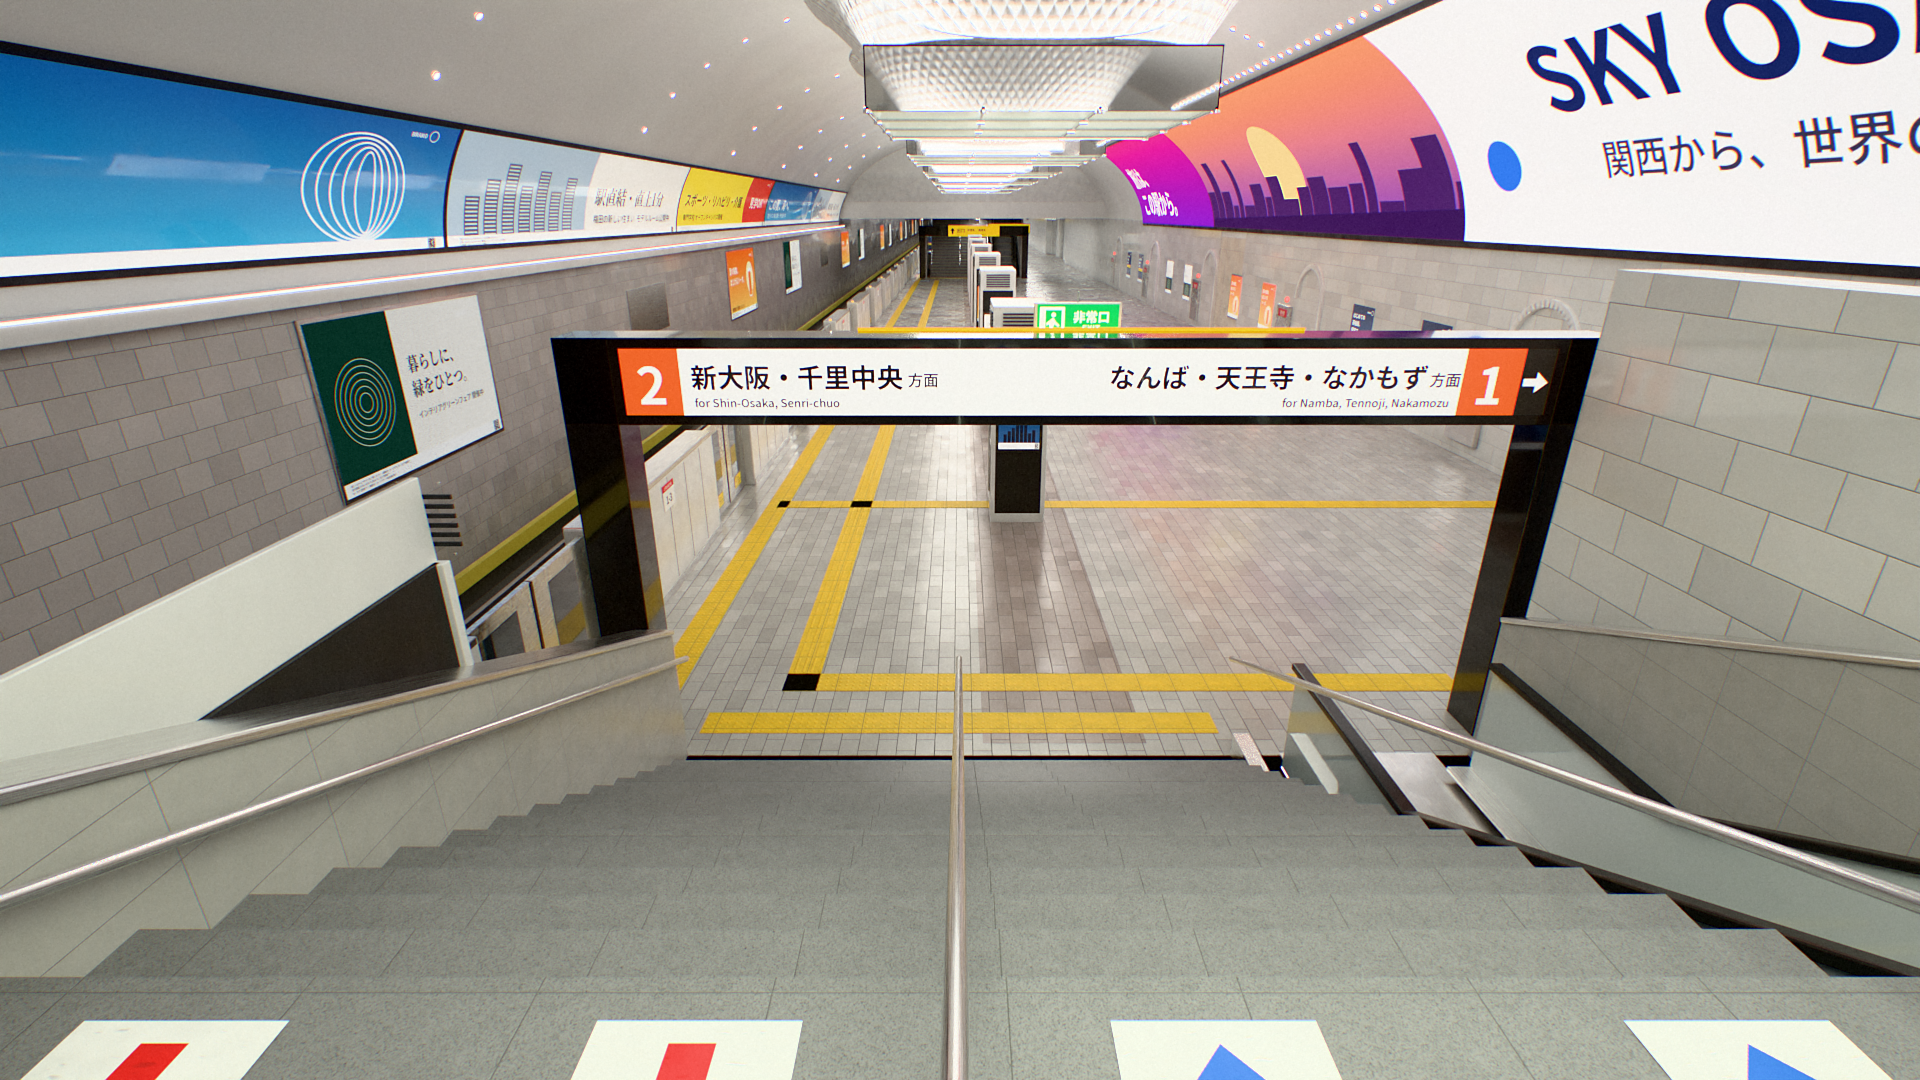
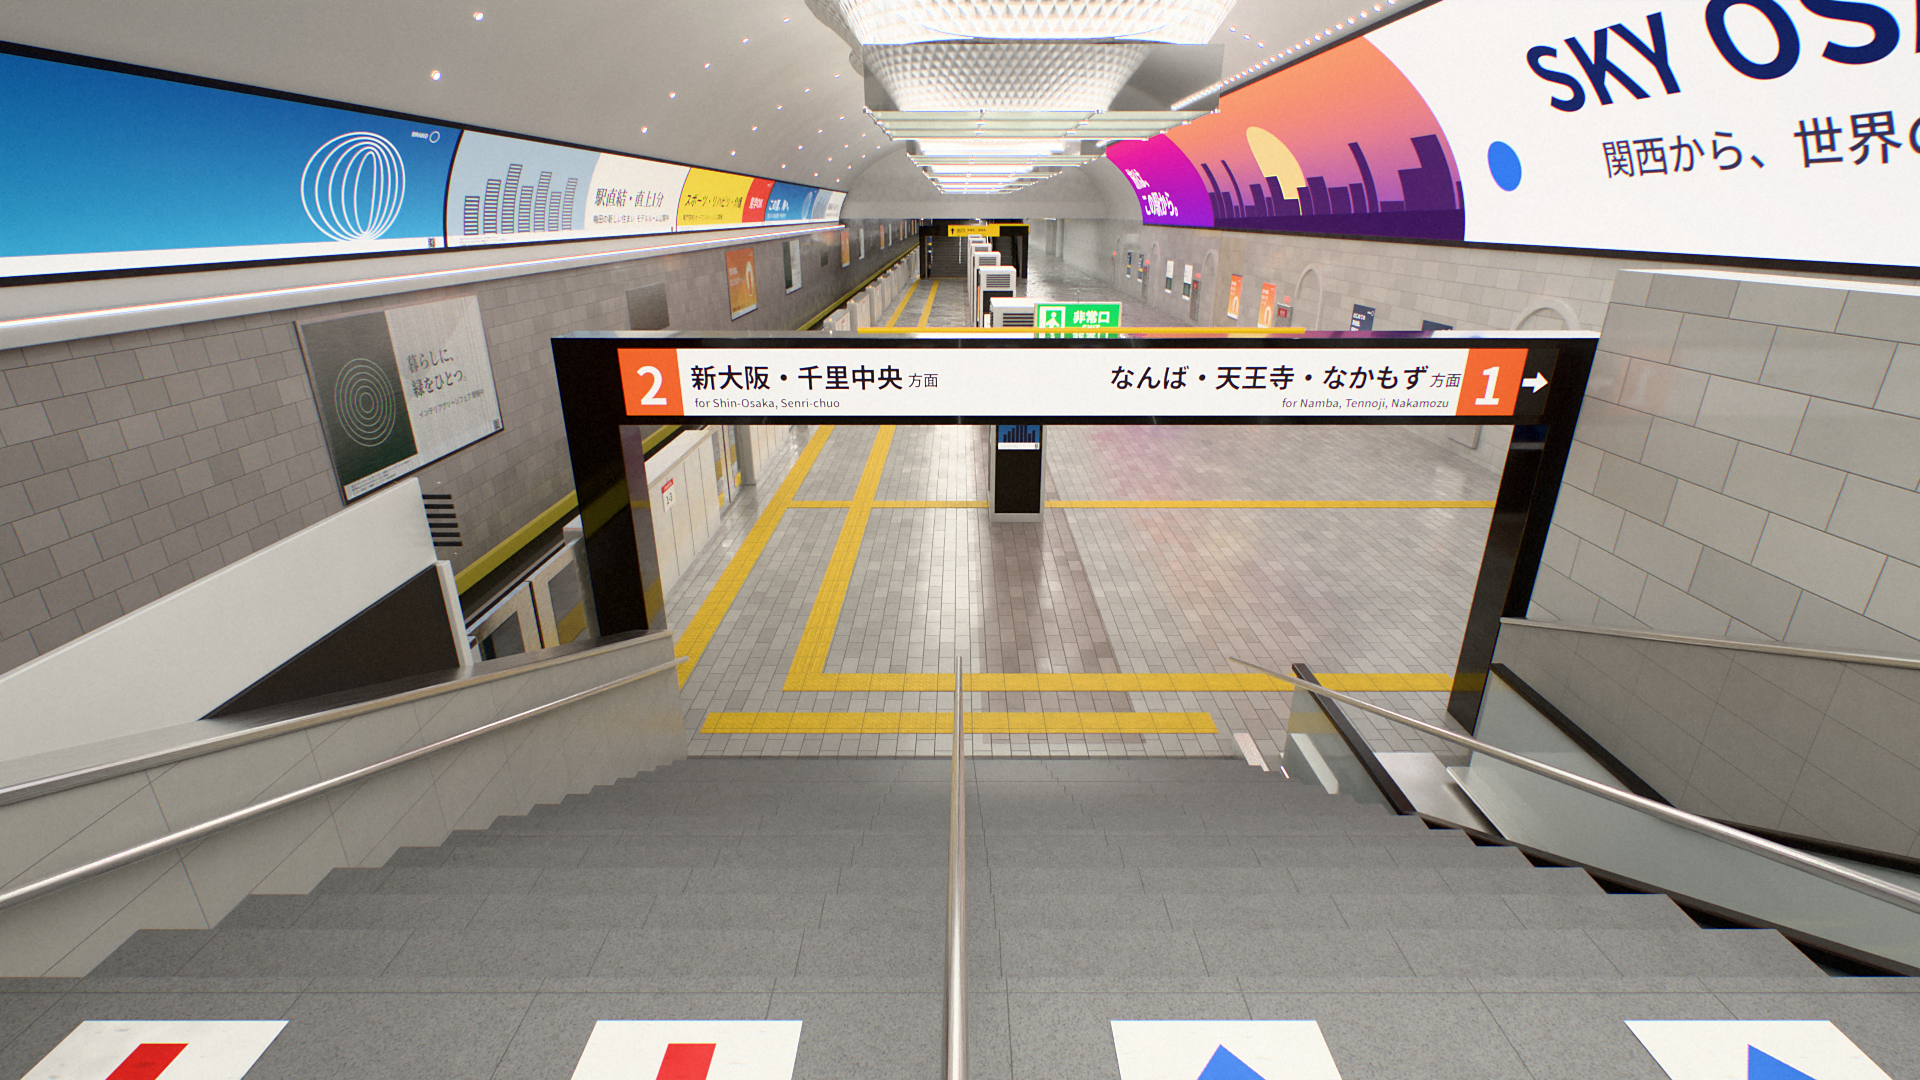
Umeda: all five views rendered on Kaggle GPUs at 512 samples (sign and tactile fixes included); README: Kaggle workflow
Claude-Session: https://claude.ai/code/session_01Up345TfCpf9UXXDhGeCGkp

diff --git a/README.md b/README.md
@@ -102,4 +102,18 @@ python3 umeda/build_umeda.py --view arch --width 480 --samples 8 "--multi=88.5,-
 ```
 
 `pip install opencv-python-headless` も必要です。
-GPU のない4コアの CPU で、1920×1080 の1枚に約1時間かかります。
+GPU のない4コアの CPU では、1920×1080 の1枚（160サンプル）に約40分かかります。
+環境が途中で再起動しても続きから描けるよう、`scripts/umeda/render_strips.py` で6本の帯に分けて描き、あとでつなぐこともできます。
+
+### Kaggle の GPU で描画する（掲載している5枚はこの方法、512サンプル）
+
+```bash
+pip install kaggle                                   # Kaggle の API トークンが必要
+python3 scripts/kaggle/kaggle_render.py bundle       # スクリプト・フォント・テクスチャを非公開データセットとしてアップロード
+python3 scripts/kaggle/kaggle_render.py run arch stairtop track1 concourse gate --samples 512 --noise 0.008
+cd scripts && python3 post.py ../render/umeda_arch.exr ../render/umeda_arch.png --exposure -0.9 --grain 0.8 --view "Khronos PBR Neutral" --look None
+```
+
+Kaggle の無料 GPU（Tesla T4 ×2、OptiX）では、160サンプルの1枚が84秒で描けました（上の CPU の約28倍）。
+512サンプルの5枚をまとめて描くと、準備を含めて約24分です。
+公式の構内図と参考写真はアップロードしません。描画に使うのは、地図から作った `plan.json` だけです。
